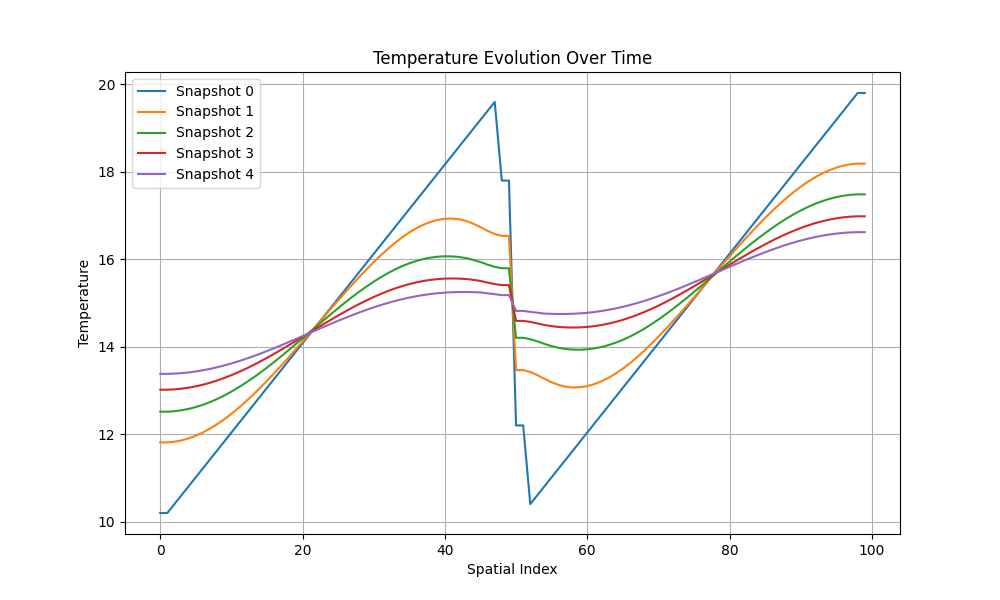
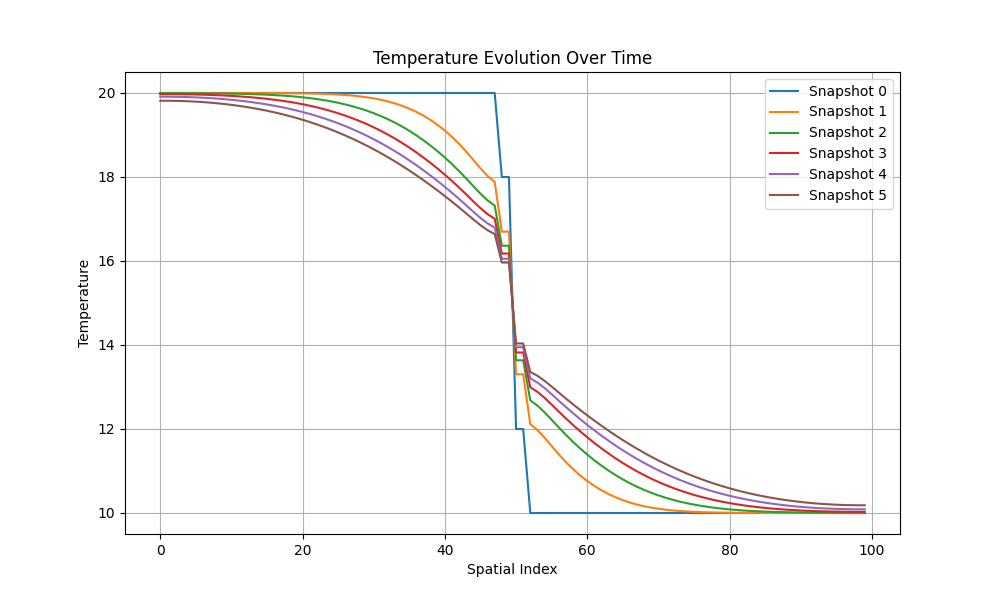
Add error comparison.

diff --git a/toymodel_11.py b/toymodel_11.py
@@ -21,6 +21,20 @@ def make_plot_1d(history, file_name):
     plt.savefig(file_name)
     plt.close()
 
+def make_error_plot(hist_monolithic, hist_expl, hist_impl):
+    plt.figure(figsize=(10, 6))
+    err_expl = np.sum(np.abs(hist_expl - hist_monolithic), axis=1)
+    err_impl = np.sum(np.abs(hist_impl - hist_monolithic), axis=1)
+    plt.plot(err_expl, label="Monolithic vs Explicit", alpha=0.7)
+    plt.plot(err_impl, label="Monolithic vs Implicit", alpha=0.7)
+    plt.xlabel("Timestep")
+    plt.ylabel("Absolute Error")
+    plt.title("Error Comparison")
+    plt.legend()
+    plt.grid()
+    plt.savefig("error_comparison.png")
+    plt.close()
+    
 def make_plot(full_history, num_snapshots, file_name):
     plt.figure(figsize=(10, 6))
     step = max(1, len(full_history)//num_snapshots)
@@ -35,8 +49,8 @@ def make_plot(full_history, num_snapshots, file_name):
     plt.close()
 
 def initial_conditions():
-    T_A = np.linspace(10.0, 20.0, Nx_A)
-    T_B = np.linspace(10.0, 20.0, Nx_B)
+    T_A = np.linspace(20.0, 20.0, Nx_A)
+    T_B = np.linspace(10.0, 10.0, Nx_B)
     return T_A, T_B
 
 # =========================
@@ -61,7 +75,6 @@ def monolithic_coupling(Nt):
         full_history.append(T_full.copy())
     print("Timesteps number:", Nt)
     print("Total model runs:", Nt)
-    make_plot(full_history, 5, "output_monolithic.png")
     return full_history
 
 def explicit_coupling(Nt, n_cpl):
@@ -83,7 +96,6 @@ def explicit_coupling(Nt, n_cpl):
 
     print("Timesteps number:", Nt)
     print("Total model runs:", models_run)
-    make_plot(full_history, 5, "output_explicit.png")
     return full_history
 
 def implicit_coupling(Nt, n_cpl, max_iter):
@@ -99,13 +111,14 @@ def implicit_coupling(Nt, n_cpl, max_iter):
         T_A_save = T_A.copy()
         T_B_save = T_B.copy()
 
+        T_if = 0.5 * (T_A_save[-1] + T_A_save[0])
+        
         for k_swrz in range(max_iter):
 
             T_A_prev = T_A_save.copy()
             T_B_prev = T_B_save.copy()
-
+            
             # Apply interface conditions given the previous state
-            T_if = 0.5 * (T_A_prev[-1] + T_A_prev[0])
             T_A_prev[-1] = T_if
             T_B_prev[0] = T_if
 
@@ -118,11 +131,12 @@ def implicit_coupling(Nt, n_cpl, max_iter):
                 T_B_prev = T_B.copy()
                 #print(f"Schwarz iteration {k_swrz}, step {ts}, error: {err:.6f}")
 
+            T_if = 0.5 * (T_A_prev[-1] + T_A_prev[0])
+
         full_history.append(np.hstack((T_A, T_B)))
 
     print("Timesteps number:", Nt)
     print("Total model runs:", models_run)
-    make_plot(full_history, 5, "output_schwarz.png")
     return full_history
 
 # =========================
@@ -136,17 +150,22 @@ def main():
 
     print("Running baseline")
     baseline = np.asarray(monolithic_coupling(Nt), dtype=object)
+    make_plot(baseline[::cpl_frequency], 5, "output_monolithic.png")
 
     print("\nRunning implicit")
     hist_impl = np.asarray(implicit_coupling(Nt, cpl_frequency, 10), dtype=object)
+    make_plot(hist_impl, 5, "output_schwarz.png")
 
     print("\nRunning explicit")
     hist_expl = np.asarray(explicit_coupling(Nt, cpl_frequency), dtype=object)
+    make_plot(hist_expl[::cpl_frequency], 5, "output_explicit.png")
 
     print("\nhist_impl shape:", hist_impl.shape)
     print("hist_expl shape:", hist_expl.shape)
-    err_impl = np.sum(np.abs(hist_impl - baseline[::cpl_frequency])) / (Nt/cpl_frequency * (Nx_A + Nx_B))
-    err_expl = np.sum(np.abs(hist_expl - baseline[::cpl_frequency])) / (Nt/cpl_frequency * (Nx_A + Nx_B))
+    # err_impl = np.sum(np.abs(hist_impl - baseline[::cpl_frequency])) / (Nt/cpl_frequency * (Nx_A + Nx_B))
+    # err_expl = np.sum(np.abs(hist_expl - baseline[::cpl_frequency])) / (Nt/cpl_frequency * (Nx_A + Nx_B))
+
+    make_error_plot(baseline[::cpl_frequency], hist_expl[::cpl_frequency], hist_impl)
     # print(f"Implicit error: {err_impl:.4f}")
     # print(f"Explicit error: {err_expl:.4f}")
 
